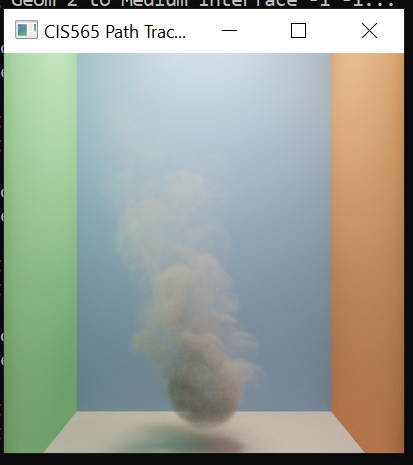
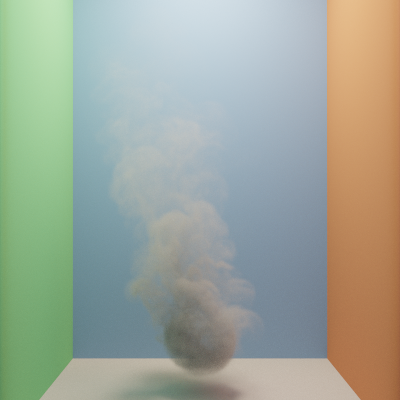
Changing asymmetry and scattering pictures

Changed region(s): [[0.0, 0.0, 1.0, 1.0], [0.27, 0.51, 0.3, 0.54], [0.15, 0.9, 0.18, 0.93]]

diff --git a/README.md b/README.md
@@ -143,13 +143,13 @@ Case where unidirectional performs better
 
 | Unidirectional  | Next-Event Estimation (NEE) | Unidirectional + NEE
 |:----------:    |:-------------:  |:-------------:  |
-| ![](img/final/performance/uni_low_density_200iter.PNG) | ![](img/final/performance/nee_low_density_200iter.PNG)  | ![](img/final/performance/mis_low_density_200iter.PNG)
+| ![](img/final/performance/uni_low_density_200iter.PNG) | ![](img/final/performance/nee_low_density_200iter.PNG) | ![](img/final/performance/mis_low_density_200iter.PNG)
 
 Case where NEE performs better
 
 | Unidirectional  | Next-Event Estimation (NEE) | Unidirectional + NEE
 |:----------:    |:-------------:  |:-------------:  |
-| ![](img/final/performance/uni_high_density_200iter.PNG) | ![](img/final/performance/nee_high_density_200iter.PNG)  | ![](img/final/performance/mis_high_density_200iter.PNG)
+| ![](img/final/performance/uni_high_density_200iter.PNG) | ![](img/final/performance/nee_high_density_200iter.PNG) | ![](img/final/performance/mis_high_density_200iter.PNG)
 
 #### Varying Extinction (Absorption + Scattering) 
 
@@ -159,7 +159,7 @@ Explain absorption and how changing it's value affects appearance.
 
 | Absorption Value  |      Absorption Value |      Absorption Value |      Absorption Value |
 |:----------:    |:-------------:  |:-------------:  |:-------------:  |
-| ![](img/milestone_3/depth_2.PNG)  |  ![](img/milestone_3/depth_2.PNG)  | ![](img/milestone_3/depth_2.PNG) | ![](img/milestone_3/depth_2.PNG)
+| ![](img/final/performance/parameters_converged/absorption/02_sca_1_ab_001_asy_1_den.PNG)  |  ![](img/final/performance/parameters_converged/absorption/02_sca_2_ab_001_asy_1_den.PNG)  | ![](img/final/performance/parameters_converged/absorption/02_sca_4_ab_001_asy_1_den.PNG) | ![](img/final/performance/parameters_converged/absorption/02_sca_8_ab_001_asy_1_den.PNG)
 
 ##### Scattering
 
@@ -167,7 +167,7 @@ Explain scattering and how changing it's value affects appearance.
 
 | Scattering Value  | Scattering Value | Scattering Value | Scattering Value |
 |:----------:    |:-------------:  |:-------------:  |:-------------:  |
-| ![](img/milestone_3/depth_2.PNG)  |  ![](img/milestone_3/depth_2.PNG)  | ![](img/milestone_3/depth_2.PNG) | ![](img/milestone_3/depth_2.PNG)
+| ![](img/final/performance/parameters_converged/scattering/1_sca_02_ab_001_asy_1_den.PNG)  |  ![](img/final/performance/parameters_converged/scattering/2_sca_02_ab_001_asy_1_den.PNG)  | ![](img/final/performance/parameters_converged/scattering/4_sca_02_ab_001_asy_1_den.PNG) | ![](img/final/performance/parameters_converged/scattering/8_sca_02_ab_001_asy_1_den.PNG)
 
 #### Henyey-Greenstein Phase Asymmetry 
 
@@ -213,37 +213,37 @@ with a call to our `PerformanceTimer` class's functions `startGpuTimer` and `end
 
 [Discussion here - see above pictures for results]
 
-![](img/final/performance/graphs/mis_low_density.PNG)
+![](img/final/performance/graphs/mis_low_density.png)
 
-![](img/final/performance/graphs/mis_high_density.PNG)
+![](img/final/performance/graphs/mis_high_density.png)
 
 #### Varying Absorption, Scattering, and Phase Asymmetry
 
 [Discussion here]
 
-![](img/final/performance/graphs/absorption.PNG)
+![](img/final/performance/graphs/absorption.png)
 
-![](img/final/performance/graphs/scattering.PNG)
+![](img/final/performance/graphs/scattering.png)
 
-![](img/final/performance/graphs/asymmetry.PNG)
+![](img/final/performance/graphs/asymmetry.png)
 
 #### Single Scattering vs. Multiple Scattering
 
 [Discussion here]
 
-![](img/final/performance/graphs/max_depth.PNG)
+![](img/final/performance/graphs/max_depth.png)
 
 #### Varying Max Density
 
 [Discussion here - taking smaller steps makes it take longer]
 
-![](img/final/performance/graphs/max_density.PNG)
+![](img/final/performance/graphs/max_density.png)
 
 #### Varying Scene Type (Box vs. Void)
 
 [Discussion here - how performance changes between scene types as you change bounce number]
 
-![](img/final/performance/graphs/max_density.PNG)
+![](img/final/performance/graphs/max_density.png)
 
 #### Other Optimizations
 
